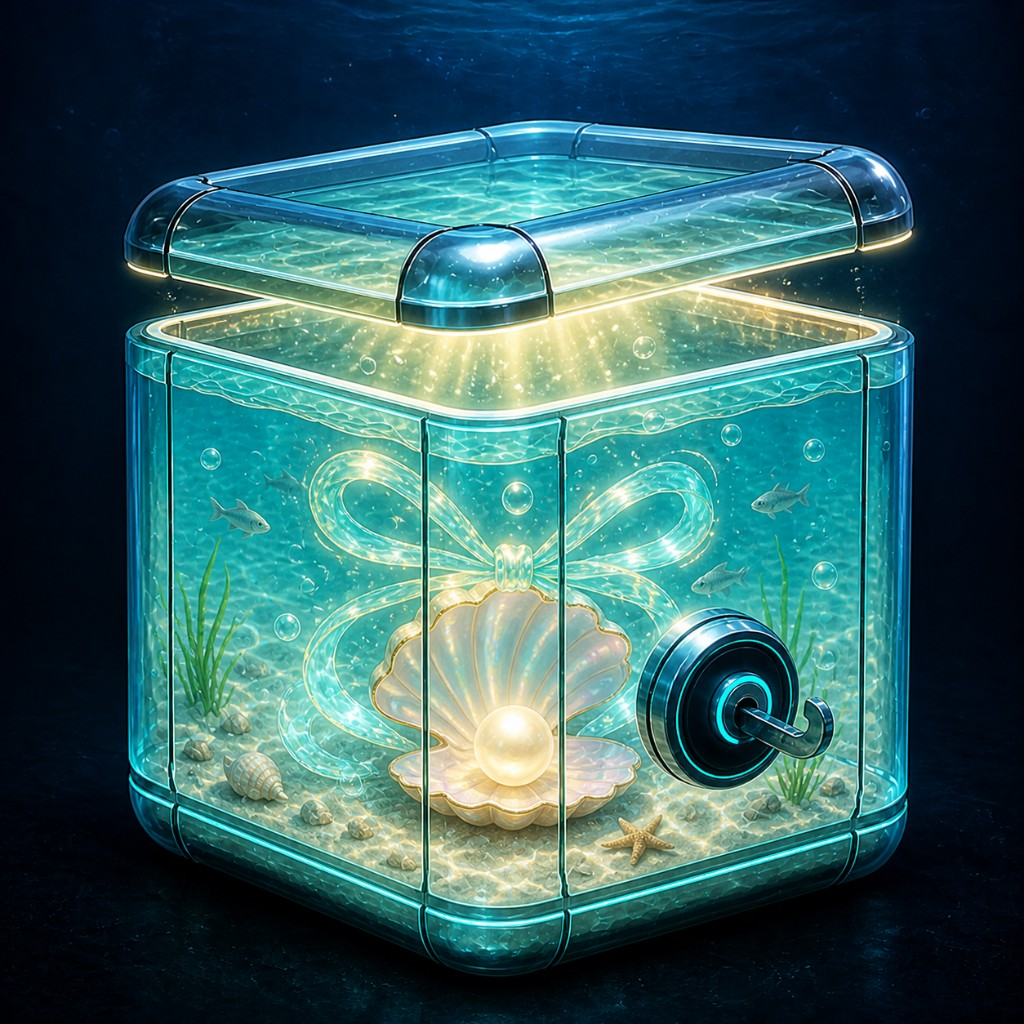
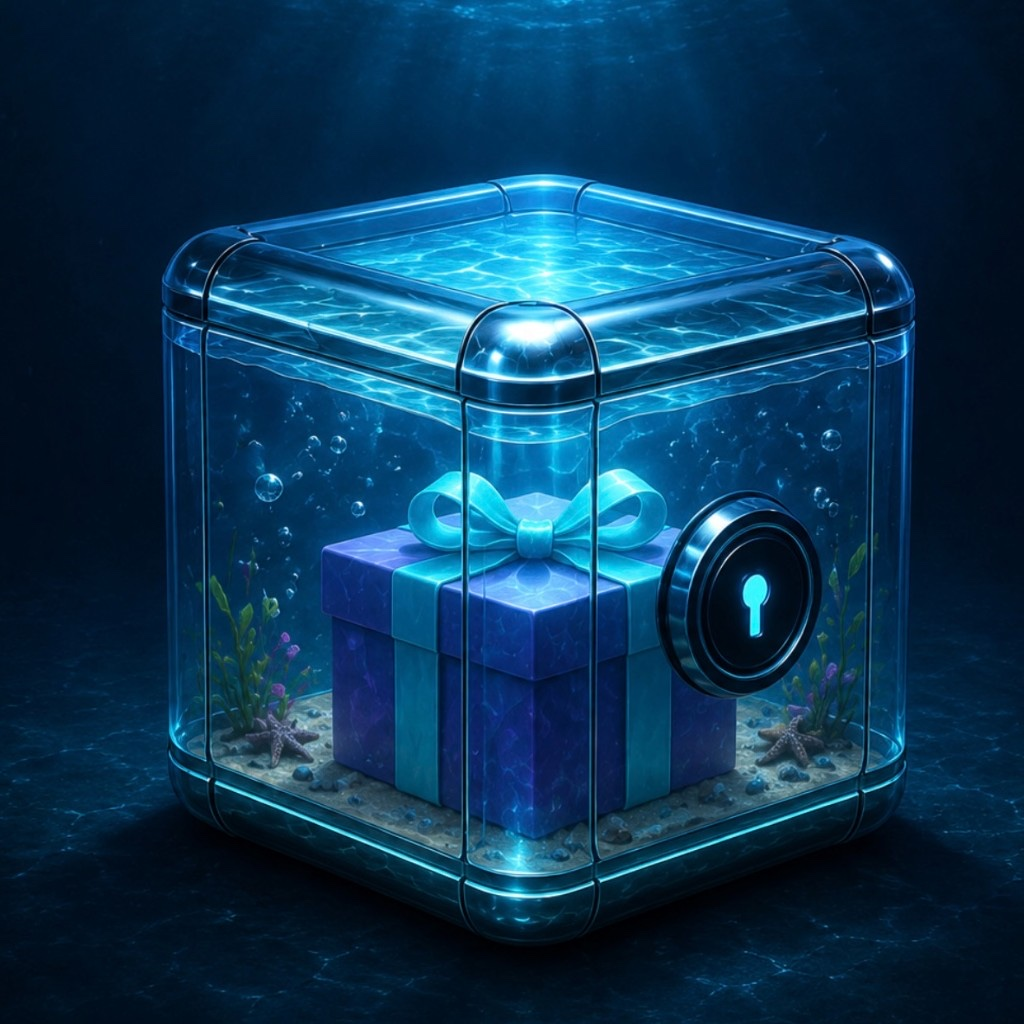
Use the new aquarium gift art for the daily case.

diff --git a/apps/web/src/pages/Casino.tsx b/apps/web/src/pages/Casino.tsx
@@ -24,7 +24,7 @@ import {
 import { hapticImpact, hapticNotify } from '../lib/telegram';
 
 const CASE_ART: Record<string, string> = {
-  DAILY: '/cases/DAILY.jpg?v=1',
+  DAILY: '/cases/DAILY.jpg?v=2',
   TIDE: '/cases/TIDE.jpg',
   REEF: '/cases/REEF.jpg',
   ABYSS: '/cases/ABYSS.jpg',
